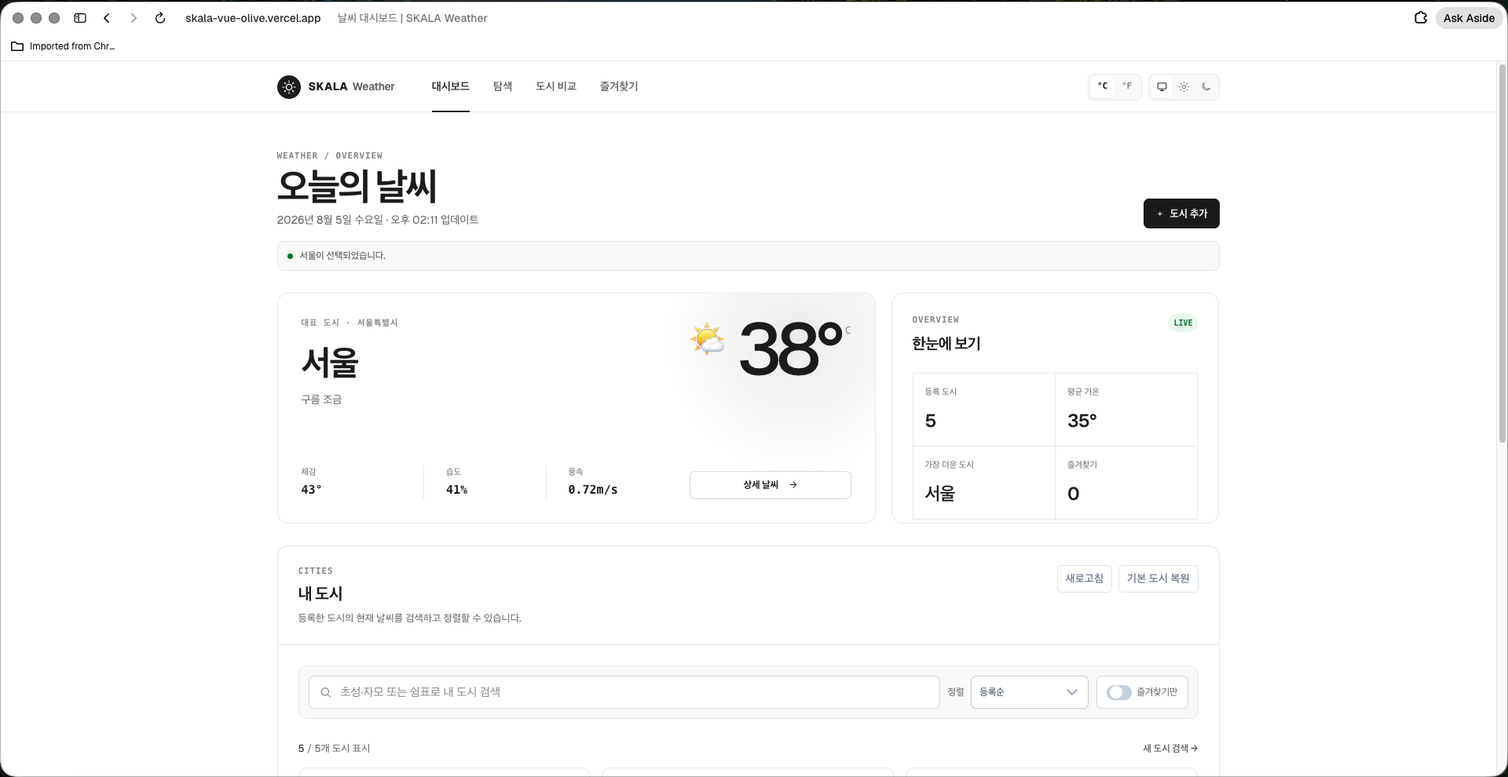
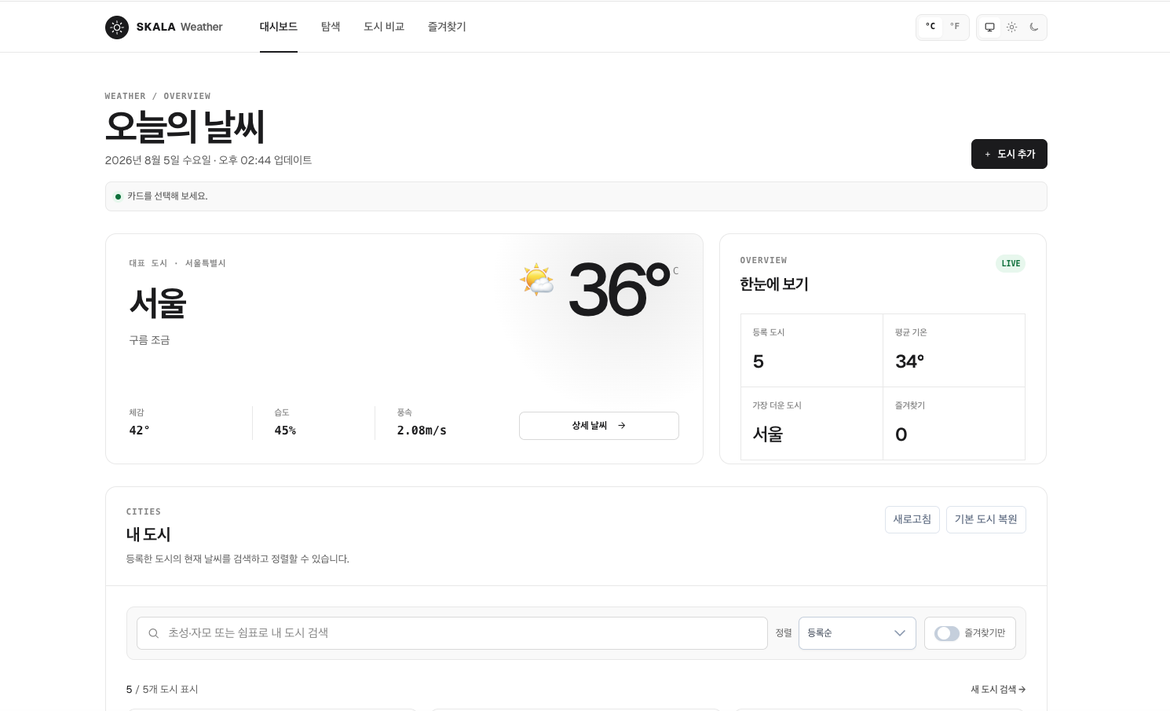
fix: add Vercel SPA rewrite for history routes

diff --git a/README.md b/README.md
@@ -1,68 +1,132 @@
-# SKALA Weather
+# 🌤 SKALA Weather
 
-Vue 3 수업의 날씨 종합 실습을 실제 서비스 흐름으로 확장한 프로젝트입니다. PDF의 기본 과제인
-**Directive → Composition API → Component → Vue Router → Pinia → Axios → UI Library**
-를 하나의 앱으로 연결하고, 검색·즐겨찾기·도시 비교·날씨 지도·테마 기능을 추가했습니다.
+Vue 3 수업의 단계별 실습을 **한국어 위치 검색 → 실시간 날씨 조회 → 도시 상태 관리** 흐름으로 확장한 날씨 대시보드입니다.
+
+**Directive → Composition API → Component → Vue Router → Pinia → Axios → UI Library**를 하나의 앱으로 연결하고, PrimeVue와 VueUse를 활용해 검색·비교·즐겨찾기·지도·테마 기능을 구현했습니다.
+
+[실행 데모](https://skala-vue-olive.vercel.app) · [실습 대비 확장](#실습-대비-확장-포인트) · [코드 근거](#코드-근거-바로가기) · [실행 방법](#실행-방법)
 
 [![SKALA Weather 대시보드](./docs/images/dashboard-overview.png)](./docs/images/dashboard-overview.png)
 
-> **핵심 차별점**: 한글 초성·자모 검색, 쉼표 다중 검색, 실제 대한민국 행정구역 검색, 현재 위치 날씨, 즐겨찾기, 도시 비교, 24시간·5일 예보, 날씨 지도, 라이트·다크 모드를 수업에서 학습한 Vue 기능으로 구현했습니다.
+_Evidence 01 · Pinia에 등록된 도시 상태와 OpenWeather의 실제 날씨를 결합한 메인 대시보드_
 
-이 README는 기본 과제의 구현 여부보다, **과제에서 요구한 범위를 어떻게 변경하거나 추가로 활용했는지**에 중점을 두었습니다. 1장은 개발 환경 구성 중심이므로 첫 날씨 과제가 시작되는 PDF 2장부터 정리했습니다.
+## 30초 핵심 요약
 
-## 빠른 탐색
+| 핵심 영역 | 과제 외 확장 구현 |
+| --- | --- |
+| **한국어 검색 UX** | `ㅅ`, `ㅅㅇ`, `서ㅇ`, `서우`, `ㅅㅓㅇㅜㄹ` 검색과 쉼표 기반 다중 도시 필터링 |
+| **반응형 데이터 계산** | 대시보드 통계, 24시간 예보, 현지 날짜 기준 5일 요약, 도시 비교 결과를 `computed`로 계산 |
+| **상태와 화면 흐름** | Pinia로 도시·즐겨찾기·단위·테마를 공유하고 Router query로 검색 화면 상태 복원 |
+| **실제 위치 데이터** | Kakao Local·Browser Geolocation에서 좌표를 얻고 OpenWeather 현재 날씨·예보와 연결 |
+| **서비스형 UX** | 최근 검색, 즐겨찾기, 도시 비교, 날씨 지도, 생활 날씨 안내, 라이트·다크 모드 제공 |
 
-- [평가 포인트와 코드 바로가기](#평가-포인트와-코드-바로가기)
-- [실제 동작 화면](#실제-동작-화면)
-- [PDF 장별 확장 내용](#pdf-장별-확장-내용)
-- [검색을 두 흐름으로 분리한 이유](#검색을-두-흐름으로-분리한-이유)
-- [실행 방법](#실행-방법)
+> **검색 흐름 분리:** 내 도시 검색은 이미 받은 데이터를 `computed`로 즉시 필터링하고, 대한민국 도시 검색은 완성된 지역명을 Kakao Local에서 조회한 뒤 사용자가 선택한 좌표로 OpenWeather를 호출합니다.
 
-## 주요 화면
+## 실습 대비 확장 포인트
 
-| 경로               | 화면               | 추가 구현 내용                                                        |
-| ------------------ | ------------------ | --------------------------------------------------------------------- |
-| `/`                | 날씨 대시보드      | 실제 날씨, 한글 자모·다중 검색, 정렬, 요약 통계, 최근 검색, 도시 관리 |
-| `/explore/search`  | 대한민국 도시 검색 | 카카오 지역 후보, 현재 위치, 검색 도시의 대시보드·즐겨찾기 등록       |
-| `/explore/map`     | 날씨 지도          | Ventusky 지도와 OpenWeather 현재 날씨 연결                            |
-| `/compare`         | 도시 비교          | 두 도시 검색, 실시간 날씨 비교, 비교 결과 자동 계산                   |
-| `/favorites`       | 즐겨찾기           | 저장한 도시의 실제 날씨와 평균 기온 조회                              |
-| `/weather/:cityId` | 상세 날씨          | 현재 관측, 24시간 예보, 5일 요약, 생활 참고 안내                      |
+| PDF 학습 영역 | 기본 실습 중심 | 이번 프로젝트의 심화·추가 구현 |
+| --- | --- | --- |
+| **1장 · 개발 환경** | Vite 프로젝트 구성 | `views`·`stores`·`api`·`composables`·`utils`로 역할 분리, API 키 환경 변수화 |
+| **2장 · Directive** | 목록·조건·입력·이벤트 처리 | 한글 IME 대응 입력, API 상태별 렌더링, 날씨 Tone 클래스, 카드 이벤트 충돌 방지 |
+| **3장 · Composition API** | `ref`·`computed`·`watch` | 자모·다중 검색, 통계·예보·비교 계산, URL·API·저장소·테마 동기화 |
+| **4장 · Component** | Props·Emits·Slot | Default·`actions`·`footer` Slot, 세분화된 이벤트, 검색 Composable 재사용 |
+| **5장 · Vue Router** | 홈·상세·Not Found | 중첩 탐색, 비교·즐겨찾기·지도, 좌표 기반 동적 경로, 복귀 경로·스크롤 복원 |
+| **6장 · Pinia** | 온도 단위 전역 상태 | 대시보드·즐겨찾기·검색 도시·테마 공유, 좌표 키와 LocalStorage 지속성 |
+| **7장 · Axios** | 단일 날씨 API 호출 | Kakao·OpenWeather 다중 API, 현재 위치, 병렬 요청, 오류·Race Condition 처리 |
+| **8장 · UI Library** | Element Plus 활용 | PrimeVue Custom Preset과 VueUse 기반 Toast·Dialog·Skeleton·테마·디바운스 적용 |
 
-## 평가 포인트와 코드 바로가기
+## 화면으로 확인하는 구현
 
-평가자가 각 학습 개념의 실제 구현을 바로 확인할 수 있도록 GitHub 코드 줄에 연결했습니다.
+상단 대표 화면을 포함한 세 장의 이미지는 실제 외부 API를 호출한 실행 결과입니다. 이미지를 누르면 원본 크기로 확인할 수 있습니다.
 
-| 학습 내용               | 과제 외 추가 활용                                                                                                                                    | 구현 코드                                                                                                                                                                                     |
-| ----------------------- | ---------------------------------------------------------------------------------------------------------------------------------------------------- | --------------------------------------------------------------------------------------------------------------------------------------------------------------------------------------------- |
-| Vue Directive           | API 로딩·오류·빈 결과·정상 결과를 조건부 렌더링하고 예보·후보·도시 카드를 반복 렌더링했습니다. 카드 내부 동작에는 이벤트 버블링 방지를 적용했습니다. | [카드 조건·이벤트 수식어](./src/components/exercise/WeatherCard.vue#L95-L177) · [상세 예보 렌더링](./src/views/WeatherDetailView.vue#L388-L651)                                               |
-| `computed`              | 한글 초성·자모 검색, 쉼표 다중 검색, 필터·정렬, 대시보드 통계, 5일 예보 요약, 도시 비교 결과를 계산했습니다.                                         | [한글 검색과 통계](./src/views/WeatherHomeView.vue#L195-L400) · [5일 예보 계산](./src/views/WeatherDetailView.vue#L233-L349) · [도시 비교 계산](./src/views/WeatherCompareView.vue#L177-L268) |
-| `watch` / `watchEffect` | 상태바·검색어 감시를 URL 동기화, API 재호출, 검색 디바운스, 브라우저 저장까지 확장했습니다.                                                          | [대시보드 URL 동기화](./src/views/WeatherHomeView.vue#L145-L193) · [수업 요구 로그](./src/views/WeatherHomeView.vue#L428-L440) · [검색·저장 감시](./src/views/WeatherSearchView.vue#L81-L131) |
-| Slot                    | `BaseDashboardCard`에 기본 Slot 외에도 `actions`, `footer` Named Slot을 추가했습니다.                                                                | [공통 카드 Slot](./src/components/exercise/BaseDashboardCard.vue#L1-L45)                                                                                                                      |
-| Props / Emits           | `SearchBar`, `WeatherCard`, `LocationSuggestionList`를 표시 전용 자식으로 분리하고 부모가 상태를 관리하게 했습니다.                                  | [SearchBar Props·Emits](./src/components/exercise/SearchBar.vue#L4-L102) · [WeatherCard Props·Emits](./src/components/exercise/WeatherCard.vue#L7-L177)                                       |
-| Vue Router              | 즐겨찾기·비교·지도·중첩 탐색 라우트, 동적 좌표 경로, URL query 복원, Lazy Loading을 추가했습니다.                                                    | [라우터 전체 설정](./src/router/index.js#L3-L92) · [앱 내비게이션](./src/App.vue#L13-L107)                                                                                                    |
-| Pinia                   | 온도 단위뿐 아니라 대시보드 도시, 즐겨찾기, 검색한 도시, 테마를 모든 라우트에서 공유하고 저장했습니다.                                               | [날씨 전역 상태](./src/stores/weatherStore.js#L140-L261) · [단위·테마 상태](./src/stores/configStore.js#L19-L91)                                                                              |
-| Axios / API             | OpenWeather 현재 날씨·예보·역지오코딩과 카카오 지역 검색을 좌표 중심으로 연결하고 병렬 요청·오류·오래된 응답을 처리했습니다.                         | [OpenWeather API](./src/api/weatherApi.js#L1-L51) · [Kakao Local API](./src/api/locationApi.js#L1-L20) · [검색 Composable](./src/composables/useLocationSearch.js#L29-L140)                   |
-| PrimeVue / VueUse       | Element Plus 대신 PrimeVue를 적용하고 VueUse로 테마·저장소·검색 디바운스를 구성했습니다.                                                             | [PrimeVue 설정](./src/main.js#L14-L78) · [VueUse 테마·저장](./src/stores/configStore.js#L22-L80) · [VueUse 디바운스](./src/composables/useLocationSearch.js#L93-L127)                         |
-
-## 실제 동작 화면
-
-이미지는 실제 API를 호출한 로컬 실행 화면입니다. 코드는 이미지로 캡처하지 않고 위의 줄 링크로 제공해 검색·복사·검증이 가능하게 했습니다. 이미지를 누르면 원본 크기로 확인할 수 있습니다.
-
-### 카카오 지역 검색 → 좌표 기반 날씨 조회
+### Evidence 02 · Kakao 지역 후보 → 좌표 기반 날씨 조회
 
 [![계룡시 카카오 검색 결과](./docs/images/kakao-search-result.png)](./docs/images/kakao-search-result.png)
 
-### 3시간 예보 → `computed` 5일 요약
+`계룡시` 행정구역 후보를 선택한 뒤 해당 좌표의 OpenWeather 현재 날씨를 조회합니다. 임의의 OpenWeather 도시 문자열을 바로 사용하는 대신, 사용자가 대한민국 지역 후보를 확인하도록 구성했습니다.
+
+### Evidence 03 · 3시간 예보 40개 → `computed` 5일 요약
 
 [![computed 5일 날씨 요약](./docs/images/computed-daily-summary.png)](./docs/images/computed-daily-summary.png)
 
-- 왼쪽: `계룡` 입력 후 카카오 행정구역 후보에서 **계룡시**를 선택하고, 해당 좌표의 OpenWeather 현재 날씨를 조회한 결과입니다.
-- 오른쪽: OpenWeather의 3시간 간격 예보 40개를 날짜별로 묶어 최저·최고 기온, 최대 강수 확률, 대표 날씨를 계산한 결과입니다.
+도시의 `timezone`을 반영해 예보를 현지 날짜별로 묶고, 일별 최저·최고 기온과 최대 강수 확률, 정오에 가까운 대표 날씨를 계산합니다.
 
-## PDF 장별 확장 내용
+## 학습 개념과 설계 연결
 
-### 2장. Vue 문법과 Directive
+| 학습 개념 | 적용 기준 | 구현 결과 |
+| --- | --- | --- |
+| **Directive** | 화면 상태와 사용자 동작을 템플릿에서 표현 | 로딩·오류·빈 결과·정상 결과 분기, API 목록 반복, 동적 클래스와 이벤트 수식어 |
+| **`computed`** | 기존 상태에서 계산할 수 있는 파생값 | 한글 검색, 필터·정렬, 통계, 예보 요약, 비교 문구가 원본 변경에 따라 자동 갱신 |
+| **`watch` / `watchEffect`** | 상태 변경 이후 필요한 부수 효과 | API 재호출, URL query 복원, LocalStorage 저장, 테마 메타 색상과 수업 로그 동기화 |
+| **Slot / Props / Emits** | 레이아웃과 상태 책임을 분리 | 공통 카드 레이아웃을 재사용하고 자식은 입력·동작만 부모에게 전달 |
+| **Composable** | 두 화면에서 반복되는 상태와 비동기 흐름 분리 | 도시 검색과 도시 비교가 Kakao 후보·디바운스·오래된 응답 방지 로직 공유 |
+| **Vue Router / Pinia** | URL이 필요한 화면 상태와 앱 전역 상태를 구분 | 탐색·상세·비교·즐겨찾기 경로와 도시·단위·테마 상태를 독립적으로 관리 |
+| **Axios / 외부 API** | 위치와 날씨 공급자를 좌표로 연결 | Kakao·Geolocation의 좌표를 OpenWeather 현재 날씨·예보 요청에 공통 사용 |
+| **PrimeVue / VueUse** | 반복 UI와 브라우저 기능을 검증된 생태계로 보완 | 사용자 피드백·삭제 확인·로딩·테마·저장·디바운스를 기존 디자인과 통합 |
+
+## 데이터 흐름
+
+```mermaid
+flowchart LR
+  A["내 도시 검색"] --> B["computed 초성·자모·다중 필터"]
+  C["대한민국 도시 검색"] --> D["Kakao Local 후보"]
+  E["현재 위치"] --> F["Browser Geolocation"]
+  D --> G["좌표 기반 Location"]
+  F --> G
+  G --> H["Pinia 공유 상태"]
+  G --> I["OpenWeather 현재·예보"]
+  I --> J["computed 요약·비교·생활 안내"]
+  H --> K["대시보드·상세·즐겨찾기·지도"]
+  J --> K
+```
+
+## 코드 근거 바로가기
+
+평가자가 설명과 실제 구현을 바로 비교할 수 있도록 핵심 로직의 GitHub 줄 링크를 기능별로 묶었습니다.
+
+### 검색과 Composition API
+
+- [한글 초성·자모·다중 검색과 대시보드 통계](./src/views/WeatherHomeView.vue#L195-L426)
+- [검색 상태와 URL query 양방향 동기화](./src/views/WeatherHomeView.vue#L145-L193)
+- [24시간 예보와 현지 날짜 기준 5일 요약](./src/views/WeatherDetailView.vue#L233-L349)
+- [한국어 조사와 도시 비교 결과 계산](./src/views/WeatherCompareView.vue#L177-L268)
+
+### 컴포넌트 설계
+
+- [Default·actions·footer Slot](./src/components/exercise/BaseDashboardCard.vue#L1-L45)
+- [SearchBar Props·Emits와 한글 입력 처리](./src/components/exercise/SearchBar.vue#L4-L102)
+- [WeatherCard Props·Emits와 이벤트 수식어](./src/components/exercise/WeatherCard.vue#L7-L177)
+- [Kakao 검색 Composable과 요청 순번 제어](./src/composables/useLocationSearch.js#L29-L140)
+
+### Router와 전역 상태
+
+- [중첩·동적·추가 라우트와 화면 복원](./src/router/index.js#L3-L92)
+- [좌표 기반 도시·즐겨찾기 State와 Action](./src/stores/weatherStore.js#L140-L261)
+- [VueUse 온도 단위·시스템 테마 상태](./src/stores/configStore.js#L19-L91)
+- [상세 페이지 복귀 경로와 이전·다음 도시](./src/views/WeatherDetailView.vue#L115-L203)
+
+### API와 사용자 피드백
+
+- [OpenWeather 현재 날씨·예보·역지오코딩](./src/api/weatherApi.js#L1-L51)
+- [Kakao Local 주소 검색](./src/api/locationApi.js#L1-L20)
+- [현재 위치 기반 날씨 검색](./src/views/WeatherSearchView.vue#L250-L334)
+- [생활 날씨 안내 규칙](./src/utils/weatherWarnings.js#L1-L76)
+- [Ventusky 좌표·레이어·도시 핀 URL](./src/views/WeatherMapView.vue#L29-L109)
+
+## 장별 상세 구현
+
+<details>
+<summary><strong>1장 · 개발 환경 — 단일 실습에서 서비스 구조로 확장</strong></summary>
+
+- 화면 단위는 `views`, 재사용 UI는 `components/exercise`, 전역 상태는 `stores`로 분리했습니다.
+- 외부 요청은 `api`, 반복되는 지역 검색 흐름은 `composables`, 표시·저장·생활 안내 규칙은 `utils`에 배치했습니다.
+- OpenWeather와 Kakao 키는 Vite 환경 변수로 분리해 실제 값이 저장소에 포함되지 않도록 구성했습니다.
+- 앱에서 사용하지 않는 이전 실습 파일은 보존하되, 최종 제출 흐름은 `App.vue`와 연결된 코드만 사용합니다.
+
+</details>
+
+<details>
+<summary><strong>2장 · Vue 문법과 Directive — API 상태와 한글 입력까지 확장</strong></summary>
 
 기본 과제의 `v-for`, `v-if`, 속성 바인딩, 이벤트 수식어를 다음과 같이 확장했습니다.
 
@@ -72,34 +136,43 @@ Vue 3 수업의 날씨 종합 실습을 실제 서비스 흐름으로 확장한 
 - 검색창은 한글 IME 입력 과정이 자연스럽도록 `v-model` 대신 `:value`와 `@input`을 유지하고, 변경값을 Emit으로 부모에게 전달합니다.
 - 카드 전체 클릭과 내부의 상세보기·즐겨찾기·삭제가 충돌하지 않도록 `@click.stop`을 적용했습니다.
 - 정렬 Select, 즐겨찾기 Toggle, 지도 도시 선택에는 `v-model`을 적용해 입력 방식에 따라 두 바인딩 방법을 비교했습니다.
+- 날씨 종류에 따라 `weather-tone-*` 클래스를 동적으로 바인딩해 API 상태와 시각 표현을 연결했습니다.
 
 **코드 확인:** [3단계 온도 문구](./src/components/exercise/WeatherCard.vue#L59-L69) · [한글 입력 처리](./src/components/exercise/SearchBar.vue#L73-L93) · [카드 이벤트 수식어](./src/components/exercise/WeatherCard.vue#L95-L177)
 
-### 3장. Composition API
+</details>
 
-#### `computed` 확장
+<details>
+<summary><strong>3장 · Composition API — 검색·통계·예보와 상태 동기화</strong></summary>
 
-- 완성형 한글을 검색용 자모로 분해합니다. `서울`을 `ㅅㅓㅇㅜㄹ`로 바꾼 뒤 검색 목록을 계산하므로 `ㅅ`, `서ㅇ`, `서우`, `ㅅㅓㅇㅜㄹ` 모두 서울과 일치합니다.
+**`computed` 확장**
+
+- 초성 문자열과 완성형 한글의 전체 자모 문자열을 각각 계산합니다. `ㅅ`, `ㅅㅇ`, `서ㅇ`, `서우`, `ㅅㅓㅇㅜㄹ` 모두 서울과 일치합니다.
 - 쉼표로 검색어를 나눠 `서울, 부산`처럼 여러 도시를 한 번에 찾습니다.
 - 검색 결과 → 즐겨찾기만 보기 → 기온·습도·이름 정렬 순서로 파생 목록을 계산합니다.
 - **한눈에 보기**에서 등록 도시 수, 평균 기온, 가장 더운 도시, 즐겨찾기 수를 계산합니다.
 - 검색 결과와 즐겨찾기 페이지의 개수·평균 기온, 두 도시의 기온·습도·풍속·기압 비교표도 자동으로 다시 계산합니다.
-- OpenWeather의 3시간 간격 예보 40개를 현지 날짜별로 묶고, 일별 최저·최고 기온과 최대 강수 확률을 계산해 5일 요약으로 가공합니다.
+- OpenWeather의 3시간 간격 예보 40개를 도시의 현지 날짜별로 묶고, 일별 최저·최고 기온과 최대 강수 확률을 계산해 5일 요약으로 가공합니다.
+- 도시 비교 문구에서는 마지막 글자의 종성을 계산해 `이/가` 조사를 자연스럽게 선택합니다.
+- 상세 진입 출처를 계산해 검색·즐겨찾기·지도·비교 화면에 맞는 복귀 경로와 버튼 문구를 만듭니다.
 
-#### `watch`와 `watchEffect` 확장
+**`watch`와 `watchEffect` 확장**
 
 - 과제에서 요구한 검색어 `watchEffect`와 상태바 문구 `watch` 로그를 유지했습니다.
 - 검색어·정렬·즐겨찾기 필터를 URL query와 양방향으로 동기화해 새로고침과 뒤로가기 후에도 화면 상태를 복원합니다.
 - Pinia의 대시보드·즐겨찾기 도시가 바뀌면 해당 페이지가 실제 날씨를 다시 불러옵니다.
 - 동적 상세 경로의 `cityId`가 바뀌면 같은 컴포넌트에서 새로운 도시의 날씨와 예보를 다시 요청합니다.
-- 대시보드·즐겨찾기·검색 도시와 최근 검색을 브라우저 저장소에 반영합니다.
+- 대시보드·즐겨찾기·검색 도시는 deep `watch`로 저장하고, 최근 검색은 검색 실행 시 목적별 목록에 명시적으로 저장합니다.
 - 선택한 테마가 바뀌면 브라우저의 `theme-color`도 함께 갱신합니다.
 
 파생값은 `computed`, API 호출·저장·라우팅처럼 상태 변경 뒤 실행해야 하는 동작은 `watch`로 구분했습니다.
 
 **코드 확인:** [한글 자모·다중 검색](./src/views/WeatherHomeView.vue#L195-L379) · [대시보드 한눈에 보기](./src/views/WeatherHomeView.vue#L381-L426) · [24시간·5일 예보 계산](./src/views/WeatherDetailView.vue#L233-L349) · [watch 활용](./src/views/WeatherSearchView.vue#L81-L131)
 
-### 4장. Vue Component
+</details>
+
+<details>
+<summary><strong>4장 · Vue Component — Slot·Props·Emits와 Composable 재사용</strong></summary>
 
 기본 4개 컴포넌트 분리에서 더 나아가, 같은 컴포넌트를 여러 라우트에서 재사용할 수 있도록 확장했습니다.
 
@@ -115,6 +188,9 @@ Vue 3 수업의 날씨 종합 실습을 실제 서비스 흐름으로 확장한 
   - 기본 `select-card`, `click-detail` 외에 `toggle-favorite`, `add-dashboard`, `remove-dashboard` 이벤트를 추가했습니다.
 - `LocationSuggestionList`
   - 카카오 검색 후보, 로딩, 오류를 Props로 받고 사용자가 고른 지역 객체를 `select` 이벤트로 전달합니다.
+- `useLocationSearch`
+  - 자동완성 API 호출, 디바운스, 행정구역 필터, 좌표 중복 제거, 요청 순번 제어를 View 밖으로 추출했습니다.
+  - 대한민국 도시 검색과 도시 비교의 좌·우 검색 흐름에서 같은 로직을 재사용합니다.
 
 ```mermaid
 flowchart LR
@@ -129,7 +205,10 @@ flowchart LR
 
 **코드 확인:** [Named Slot](./src/components/exercise/BaseDashboardCard.vue#L23-L44) · [SearchBar 통신](./src/components/exercise/SearchBar.vue#L4-L102) · [WeatherCard 통신](./src/components/exercise/WeatherCard.vue#L7-L93)
 
-### 5장. Vue Router
+</details>
+
+<details>
+<summary><strong>5장 · Vue Router — 기능별 화면과 복원 가능한 URL 상태</strong></summary>
 
 기본 홈·소개·동적 상세·Not Found 라우트에 실제 서비스형 화면 전환을 추가했습니다.
 
@@ -143,7 +222,10 @@ flowchart LR
 
 **코드 확인:** [중첩·동적·추가 라우트](./src/router/index.js#L3-L76) · [스크롤·문서 제목](./src/router/index.js#L77-L92) · [상세 복귀 경로 계산](./src/views/WeatherDetailView.vue#L115-L202)
 
-### 6장. Pinia Store
+</details>
+
+<details>
+<summary><strong>6장 · Pinia — 좌표 기반 도시·즐겨찾기·설정 상태</strong></summary>
 
 과제의 `configStore`를 유지하면서 실제 서비스 상태를 담당하는 `weatherStore`를 추가했습니다.
 
@@ -154,12 +236,16 @@ flowchart LR
   - 기본 대시보드 도시 5개, 사용자가 검색한 도시, 즐겨찾기 도시를 모든 라우트에서 공유합니다.
   - 도시 추가·삭제·기본값 복원·즐겨찾기 전환을 Action으로 제공합니다.
   - 좌표를 공통 식별자로 사용해 카카오와 OpenWeather의 도시명 표기가 달라도 같은 장소를 연결합니다.
+  - 대시보드·즐겨찾기 키를 `computed Set`으로 만들어 포함 여부를 반복해서 빠르게 확인합니다.
   - 좌표가 같은 후보 중복 제거, 기본 도시 대표 좌표 재사용, 이전 숫자 ID 즐겨찾기 마이그레이션을 처리했습니다.
   - 새로고침 후에도 대시보드·즐겨찾기·검색 도시를 복원하도록 브라우저 저장소와 동기화했습니다.
 
 **코드 확인:** [대시보드·즐겨찾기 State와 Action](./src/stores/weatherStore.js#L140-L236) · [Store 자동 저장 watch](./src/stores/weatherStore.js#L238-L261) · [단위·테마 Getter와 Action](./src/stores/configStore.js#L19-L91)
 
-### 7장. Axios와 외부 데이터
+</details>
+
+<details>
+<summary><strong>7장 · Axios와 외부 데이터 — 지역 후보부터 실시간 예보까지</strong></summary>
 
 Mock Data는 기본 도시의 대표 좌표에만 사용하고, 화면에 표시되는 날씨는 실제 API 응답으로 교체했습니다.
 
@@ -181,7 +267,10 @@ Mock Data는 기본 도시의 대표 좌표에만 사용하고, 화면에 표시
 
 **코드 확인:** [OpenWeather 요청](./src/api/weatherApi.js#L1-L51) · [Kakao 요청](./src/api/locationApi.js#L1-L20) · [후보 중복·오래된 응답 처리](./src/composables/useLocationSearch.js#L29-L105) · [현재 위치 검색](./src/views/WeatherSearchView.vue#L250-L334) · [Ventusky 좌표 URL](./src/views/WeatherMapView.vue#L29-L109)
 
-### 8장. UI Library
+</details>
+
+<details>
+<summary><strong>8장 · UI Library — PrimeVue Custom Preset과 VueUse</strong></summary>
 
 수업에서 다른 UI 라이브러리 사용도 허용되어 Element Plus 대신 **PrimeVue**를 선택했습니다.
 
@@ -199,7 +288,12 @@ PrimeVue와 함께 **VueUse**도 적용했습니다.
 
 **코드 확인:** [PrimeVue Preset과 서비스 등록](./src/main.js#L14-L78) · [Toast·ConfirmDialog 배치](./src/App.vue#L44-L47) · [VueUse 테마·저장](./src/stores/configStore.js#L22-L80) · [VueUse 디바운스](./src/composables/useLocationSearch.js#L93-L127)
 
-## 검색을 두 흐름으로 분리한 이유
+</details>
+
+<details>
+<summary><strong>9장 · 종합 확장 — 검색 구조와 서비스형 기능</strong></summary>
+
+**검색을 두 흐름으로 분리한 이유**
 
 | 내 도시 검색                                                         | 대한민국 도시 검색                                                        |
 | -------------------------------------------------------------------- | ------------------------------------------------------------------------- |
@@ -210,6 +304,17 @@ PrimeVue와 함께 **VueUse**도 적용했습니다.
 전국의 모든 장소에 초성 검색을 직접 적용하려면 먼저 전체 지명 데이터가 필요합니다. 따라서 로컬 대시보드에서는 학습한 검색 알고리즘을 활용하고, 실제 도시 탐색에서는 카카오 후보 선택으로 정확한 좌표를 얻도록 역할을 나눴습니다.
 
 **코드 확인:** [로컬 자모 검색](./src/views/WeatherHomeView.vue#L195-L379) · [API 검색어 검증과 디바운스](./src/composables/useLocationSearch.js#L9-L127)
+
+**과제 외 종합 기능**
+
+- 기본 대표 도시 5개를 대시보드에 제공하고 사용자가 삭제·추가·기본값 복원할 수 있게 했습니다.
+- 검색한 도시를 즐겨찾기에 저장하고 전용 라우트에서 실제 날씨와 평균 기온을 다시 조회합니다.
+- 두 도시의 기온·체감·습도·풍속·기압·구름량을 비교하고 자연스러운 한국어 결과 문구를 계산합니다.
+- Ventusky Embed URL에 선택 좌표·레이어·대시보드 도시 핀을 전달하고, 선택 도시의 OpenWeather 현재 수치를 함께 보여줍니다.
+- 현재 및 24시간 예보의 기온·강수 확률·풍속·날씨 코드를 바탕으로 생활 날씨 안내를 계산합니다. 이 안내는 공식 기상 특보가 아님을 화면에 명시했습니다.
+- 시스템 설정을 따르는 라이트·다크 모드와 섭씨·화씨 전환을 모든 라우트에 공통 적용했습니다.
+
+</details>
 
 ## 사용 API와 환경 변수
 
